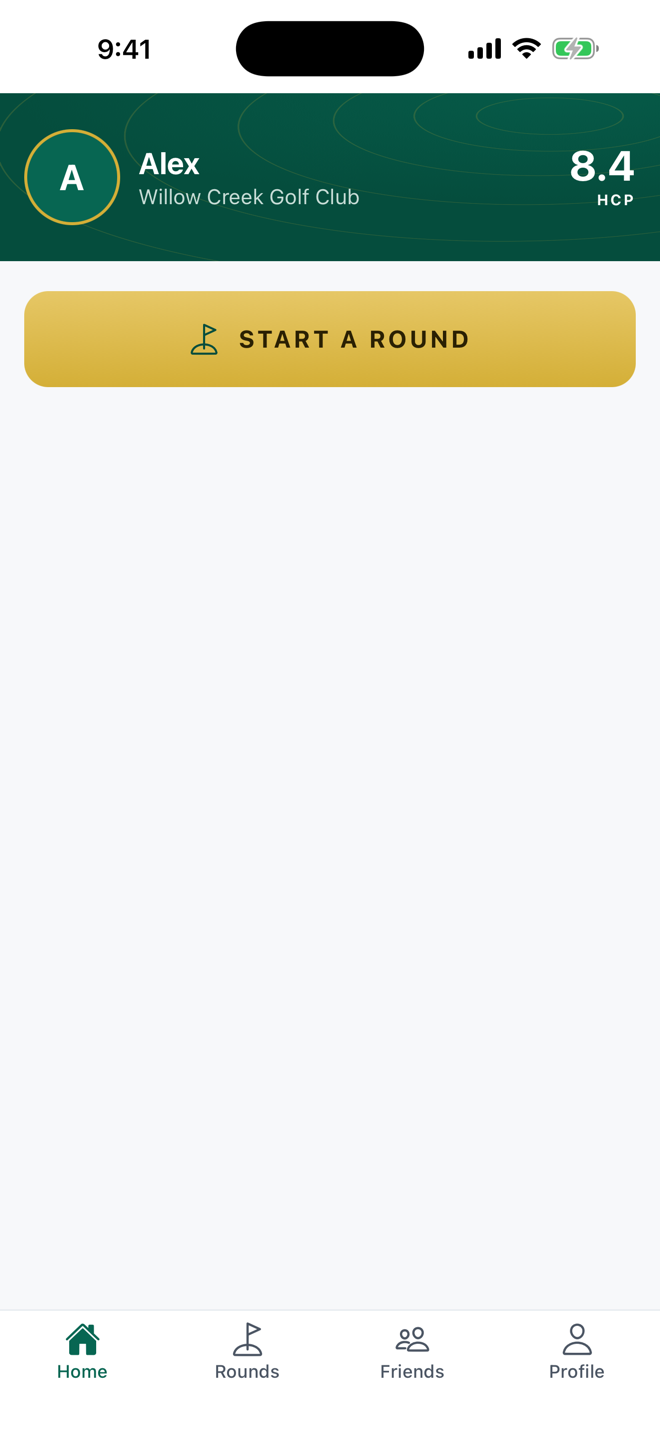
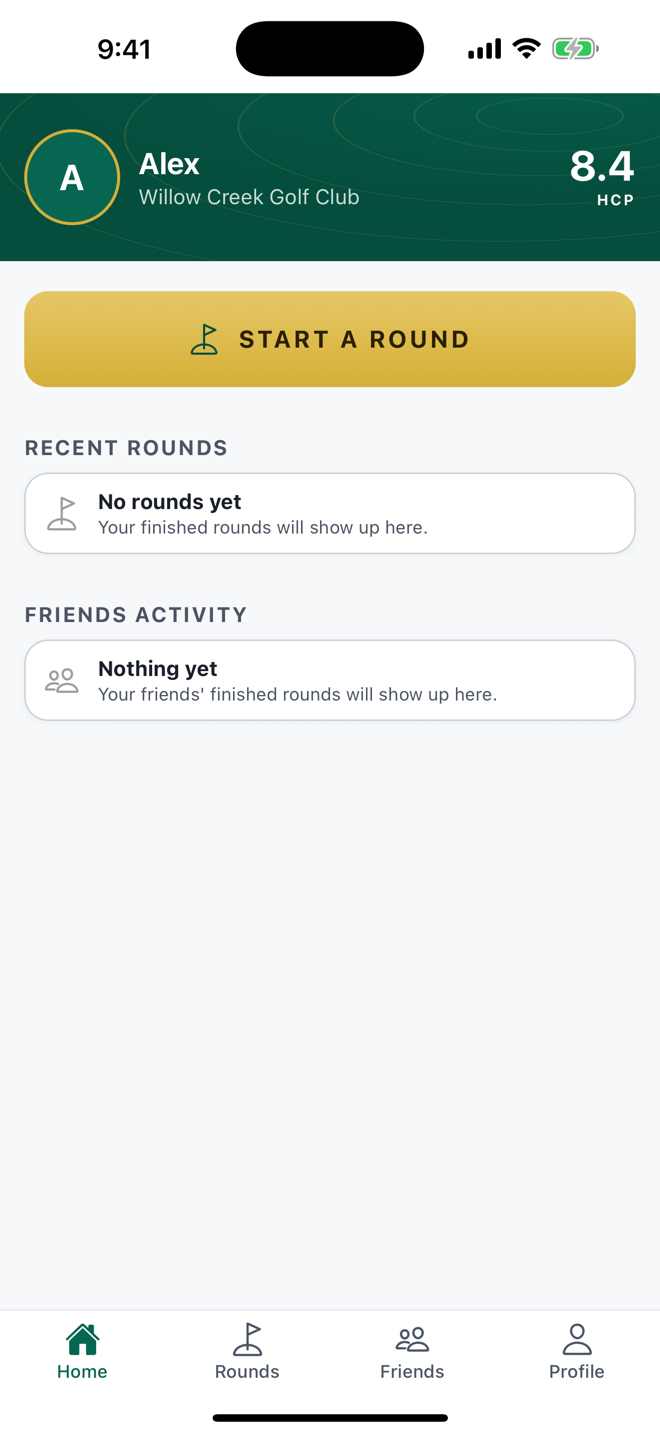
fix(manual): home shows its Recent rounds and Friends activity placeholders (GolfGames #1109)
Retakes home.png from master and describes all three placeholder states.

Claude-Session: https://claude.ai/code/session_01HSCz6JruuWZDVEVmQJNaNP

diff --git a/manual/getting-started/index.html b/manual/getting-started/index.html
@@ -41,10 +41,10 @@
     <div class="tip"><strong>Forgot your password?</strong> Tap <strong>Forgot Password?</strong> on the Sign In screen. We email you a link to set a new one.</div>
 
     <h2 id="home">The home screen</h2>
-    <p>After you sign in you land on <strong>Home</strong>. It shows your name, your home course and your handicap, with a <strong>Start a round</strong> button. Below it are <strong>Recent rounds</strong> and <strong>Friends activity</strong>, there from the start: each says so while it is empty, until you finish a round or add friends. Rounds in progress and friends who are playing right now appear above them.</p>
+    <p>After you sign in you land on <strong>Home</strong>. It shows your name, your home course and your handicap, with a <strong>Start a round</strong> button. Below it are <strong>Recent rounds</strong> and <strong>Friends activity</strong>, there from the start. Until you finish a round, Recent rounds says <em>No rounds yet</em>. Friends activity says <em>No friends yet</em> with a <strong>Find friends</strong> link until you add friends, then <em>Nothing yet</em> until one of them finishes a round. Rounds in progress and friends who are playing right now appear above them.</p>
     <p>The tabs along the bottom are <strong>Home</strong>, <strong>Rounds</strong> (your round history), <strong>Friends</strong> and <strong>Profile</strong>.</p>
     <div class="shots one">
-      <figure><img src="/manual/img/getting-started/home.png" alt="The home screen for a new player showing a handicap of 8.4, a Start a Round button, an empty Recent rounds section reading No rounds yet, an empty Friends activity section reading No friends yet with a Find friends link, and the tab bar" loading="lazy"><figcaption>Home, before your first round</figcaption></figure>
+      <figure><img src="/manual/img/getting-started/home.png" alt="The home screen for a new player with a handicap of 8.4, a Start a round button, Recent rounds reading No rounds yet, and Friends activity reading Nothing yet" loading="lazy"><figcaption>Home, before your first round</figcaption></figure>
     </div>
     <div class="tip">The <strong>HCP</strong> on the home screen is your handicap: your GHIN Handicap Index if you have <a href="#ghin">linked GHIN</a>, otherwise the handicap in <a href="#edit-profile">your profile</a>. Tap it to view GHIN, or to edit your handicap. It shows <strong>--.-</strong> until you have one.</div>
 
